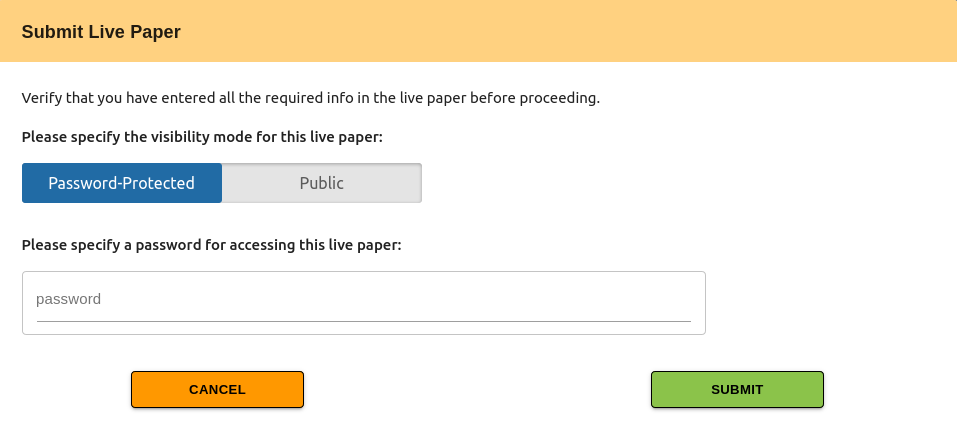
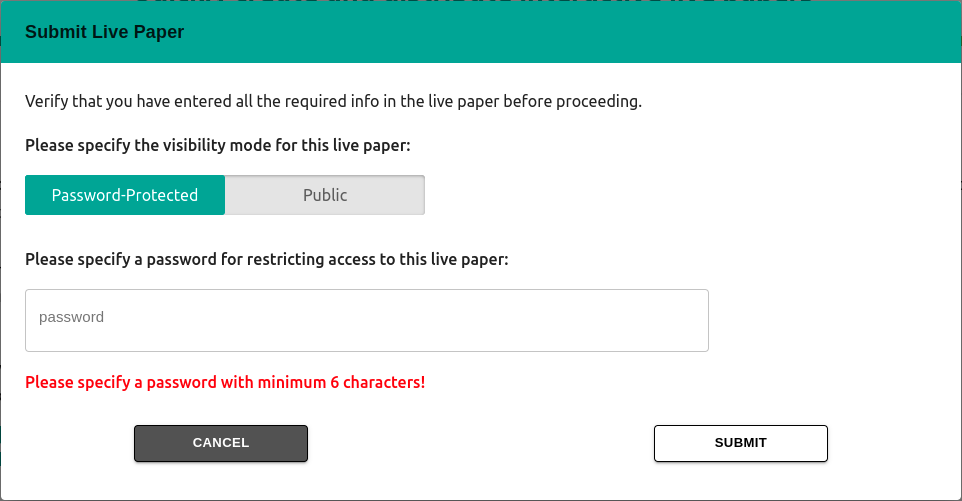
update figures in docs for new theme

diff --git a/apps/live-paper-docs/src/Create.js b/apps/live-paper-docs/src/Create.js
@@ -21,8 +21,8 @@ export default class Create extends React.Component {
         </div>
 
         <div className="block">
-          <div className="block-little-header">Live Paper Platform</div>
-          <div className="block-main-header">Collection of all public live papers</div>
+          <div className="block-little-header">Live Paper Builder</div>
+          <div className="block-main-header">Create interactive live papers online</div>
           <div className="block-text">
             The live paper builder tool has been developed with the primary
             focus on making the data sharing process as simple as possible. It
@@ -44,17 +44,20 @@ export default class Create extends React.Component {
             paper project as we demonstrate here.
             <br /><br />
             <div style={{ textAlign: "center" }}>
-              <img alt="" src={process.env.PUBLIC_URL + "/figures/create/lp_builder_homepage.png"} width="95%" />
+              <img alt="" src={process.env.PUBLIC_URL + "/figures/create/lp_builder_homepage.png"} width="90%" />
             </div>
             <br />
             Metadata about the associated publication can either be manually
             entered field by field, or users can avail of the feature to upload
             the PDF version of the manuscript and have the tool attempt to
             auto-extract all the relevant info and populate the corresponding
-            fields.
+            fields. It is also possible to specify the DOI of the published 
+            article, and the tool will fetch the associated info. Note that 
+            typically the data fetched via the DOI is more accurate but limited, 
+            as compared to the extraction from PDF method.
             <br /><br />
             <div style={{ textAlign: "center" }}>
-              <img alt="" src={process.env.PUBLIC_URL + "/figures/create/lp_builder_create_home.png"} width="95%" />
+              <img alt="" src={process.env.PUBLIC_URL + "/figures/create/lp_builder_create_home.png"} width="90%" />
             </div>
             <br />
             An example outcome of auto-extracting the metadata from the PDF is
@@ -65,7 +68,7 @@ export default class Create extends React.Component {
             the the output be verified, and corrections be made as required.
             <br /><br />
             <div style={{ textAlign: "center" }}>
-              <img alt="" src={process.env.PUBLIC_URL + "/figures/create/lp_builder_pdf_extract.png"} width="95%" />
+              <img alt="" src={process.env.PUBLIC_URL + "/figures/create/lp_builder_pdf_extract.png"} width="80%" />
             <br /><br />
             </div>
             The data extracted from the PDF would be auto-populated into the
@@ -77,7 +80,7 @@ export default class Create extends React.Component {
             authors irrespective of the two approaches.
             <br /><br />
             <div style={{ textAlign: "center" }}>
-              <img alt="" src={process.env.PUBLIC_URL + "/figures/create/lp_builder_main_filled.png"} width="95%" />
+              <img alt="" src={process.env.PUBLIC_URL + "/figures/create/lp_builder_main_filled.png"} width="90%" />
             <br /><br />
             </div>
             Once all the metadata has been inserted, authors can proceed to
@@ -87,7 +90,7 @@ export default class Create extends React.Component {
             following:
             <br /><br />
             <div style={{ textAlign: "center" }}>
-              <img alt="" src={process.env.PUBLIC_URL + "/figures/create/lp_builder_resource_panel.png"} width="95%" />
+              <img alt="" src={process.env.PUBLIC_URL + "/figures/create/lp_builder_resource_panel.png"} width="90%" />
             </div>
             <ul>
               <li><a href onClick={() => this.props.updateHash("morphology")}>Morphologies</a></li>
@@ -110,7 +113,7 @@ export default class Create extends React.Component {
             be published on the platform.
             <br /><br />
             <div style={{ textAlign: "center" }}>
-              <img alt="" src={process.env.PUBLIC_URL + "/figures/create/lp_builder_toolbar.png"} width="95%" />
+              <img alt="" src={process.env.PUBLIC_URL + "/figures/create/lp_builder_toolbar.png"} width="90%" />
             </div>
             <br />
             Live papers can be set to be password-protected, thereby enabling
@@ -121,8 +124,9 @@ export default class Create extends React.Component {
             to the scientific community.
             <br /><br />
             <div style={{ textAlign: "center" }}>
-              <img alt="" src={process.env.PUBLIC_URL + "/figures/create/lp_builder_submit_password.png"} width="95%" />
+              <img alt="" src={process.env.PUBLIC_URL + "/figures/create/lp_builder_submit_password.png"} width="65%" />
             </div>
+            <br />
             The review process primarily involves verifying that all contained
             resources are actually accessible and that these are hosted on
             reliable data storage repositories. Resources hosted on authors' or

diff --git a/apps/live-paper-docs/src/Find.js b/apps/live-paper-docs/src/Find.js
@@ -27,12 +27,12 @@ export default class Find extends React.Component {
             Published live papers are freely accessible on the live paper
             platform. The live papers are listed in reverse chronological order:
             <div style={{ textAlign: "center" }}>
-              <img alt="" src={process.env.PUBLIC_URL + "/figures/find/live_paper_homepage.png"} width="95%" />
+              <img alt="" src={process.env.PUBLIC_URL + "/figures/find/live_paper_homepage.png"} width="90%" />
             </div>
             <br />
             You can click on any entry to view that specific live paper:
             <div style={{ textAlign: "center" }}>
-              <img alt="" src={process.env.PUBLIC_URL + "/figures/find/live_paper_migliore_2018.png"} width="95%" />
+              <img alt="" src={process.env.PUBLIC_URL + "/figures/find/live_paper_migliore_2018.png"} width="90%" />
             </div>
           </div>
         </div>
@@ -51,7 +51,6 @@ export default class Find extends React.Component {
               <li>names of associated author(s)</li>
               <li>keyword search of abstract</li>
             </ul>
-            <p><i>Work in progress!</i></p>
           </div>
         </div>
 
